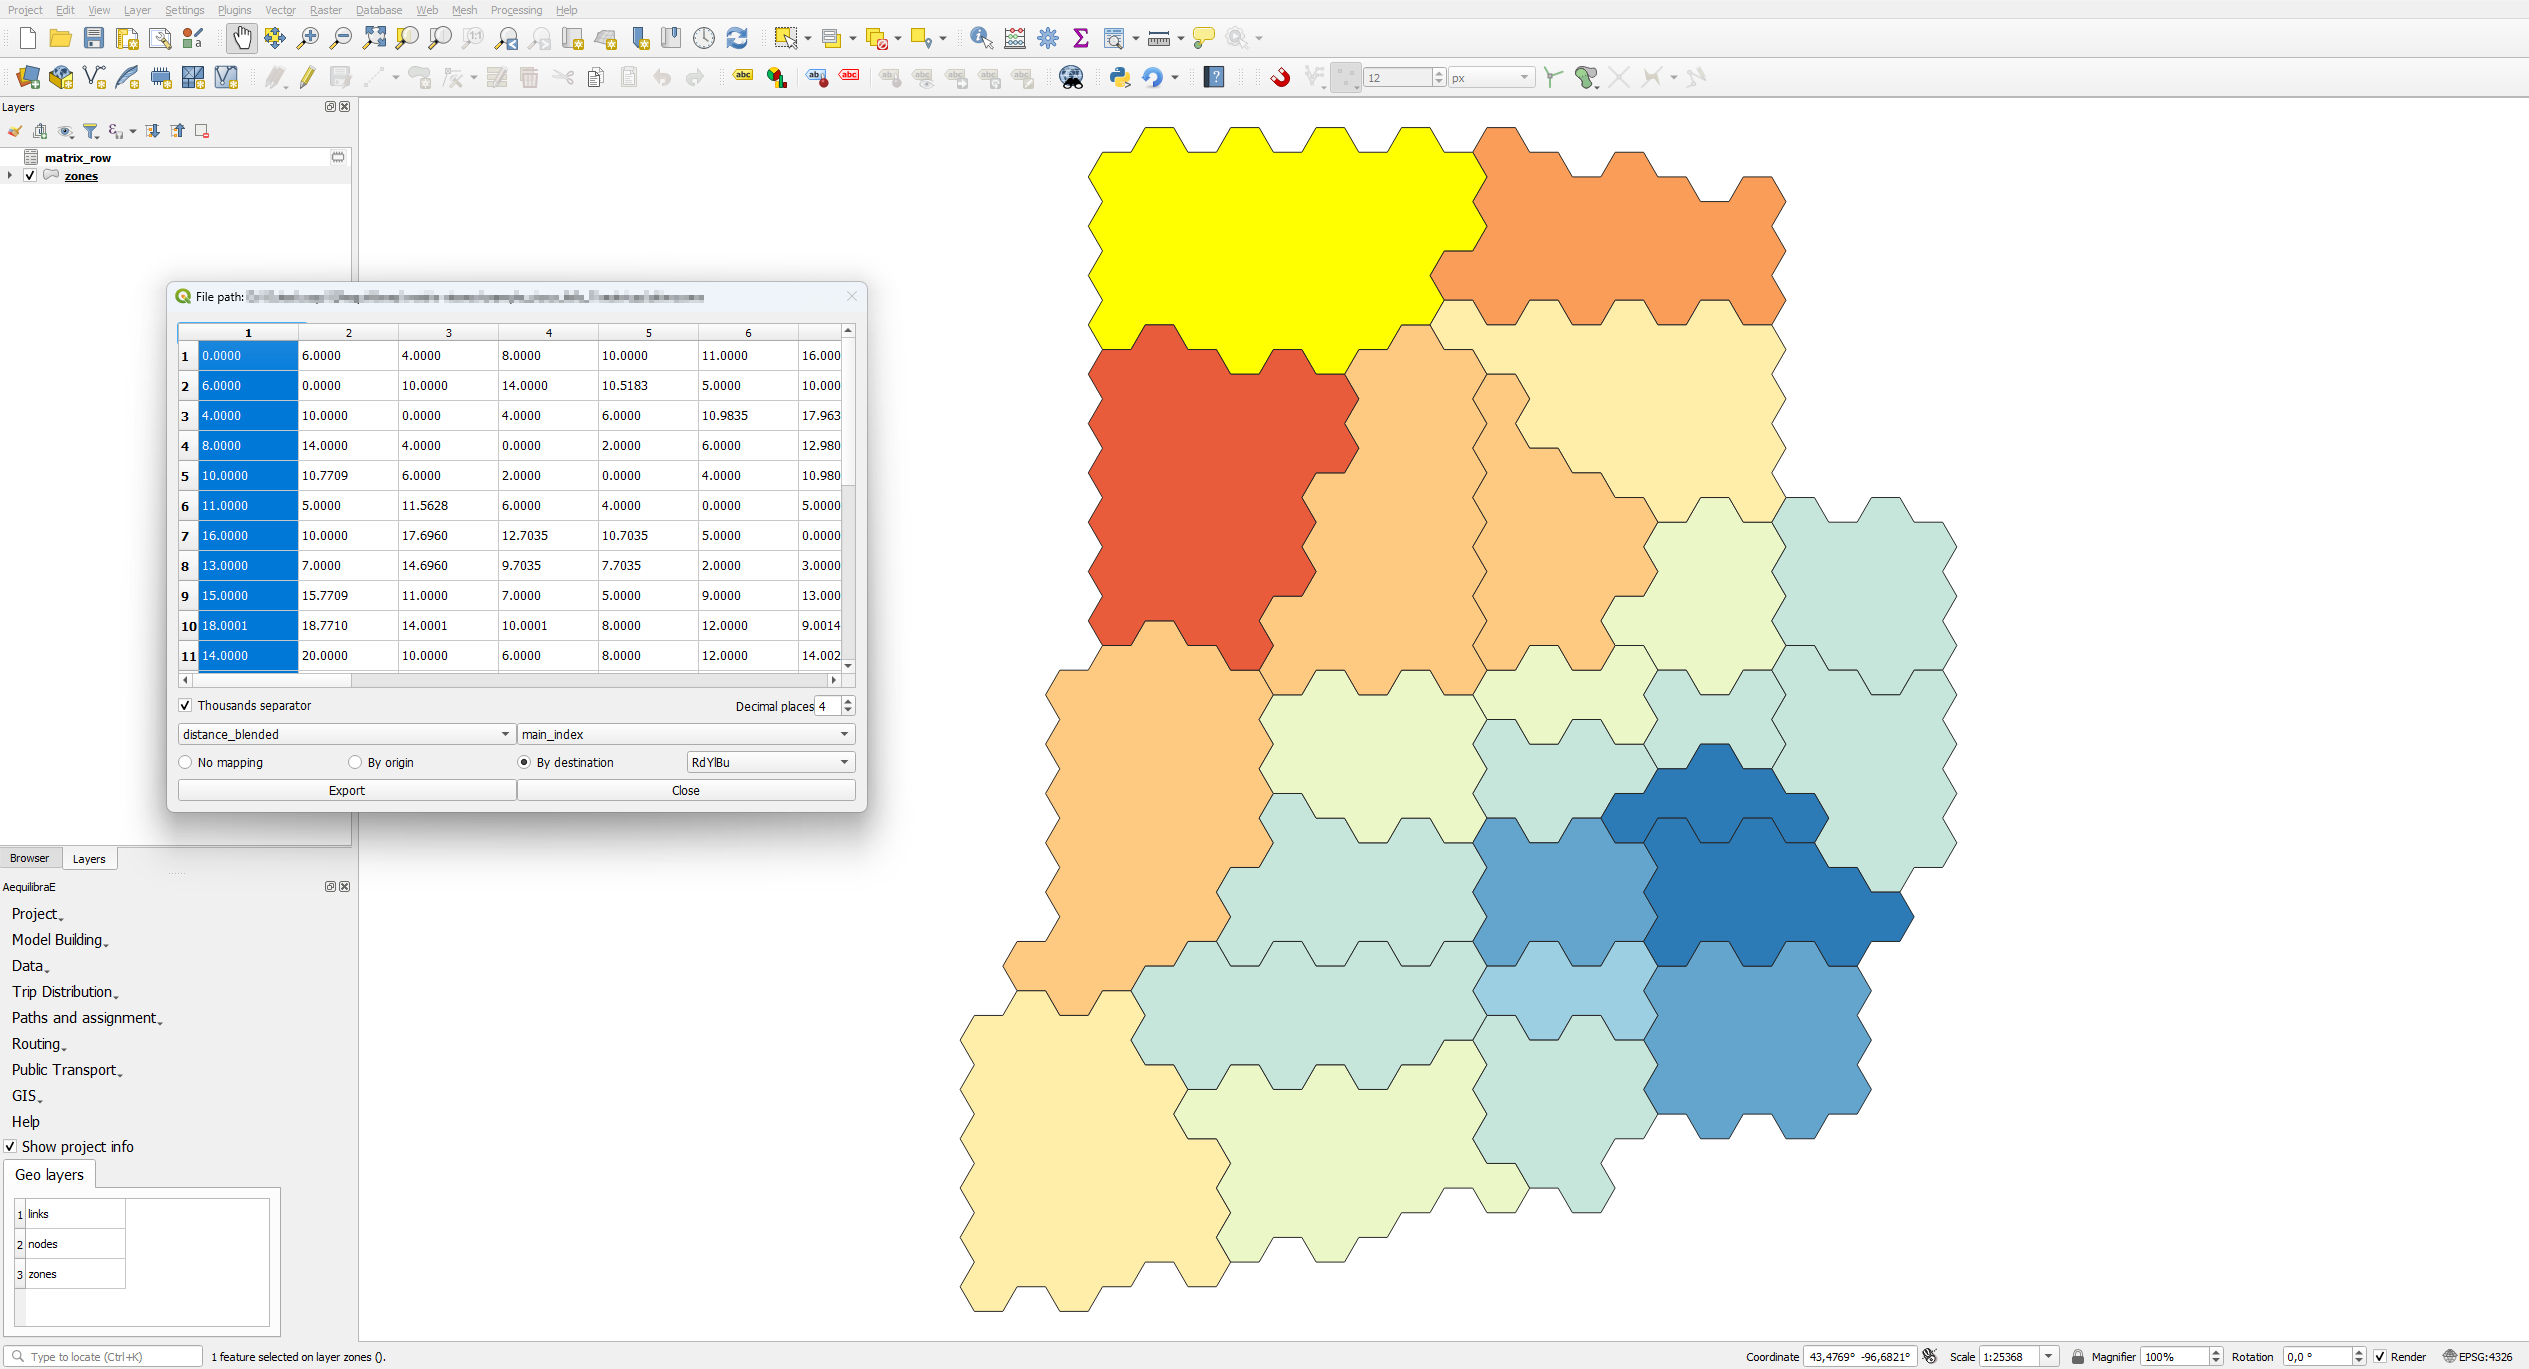
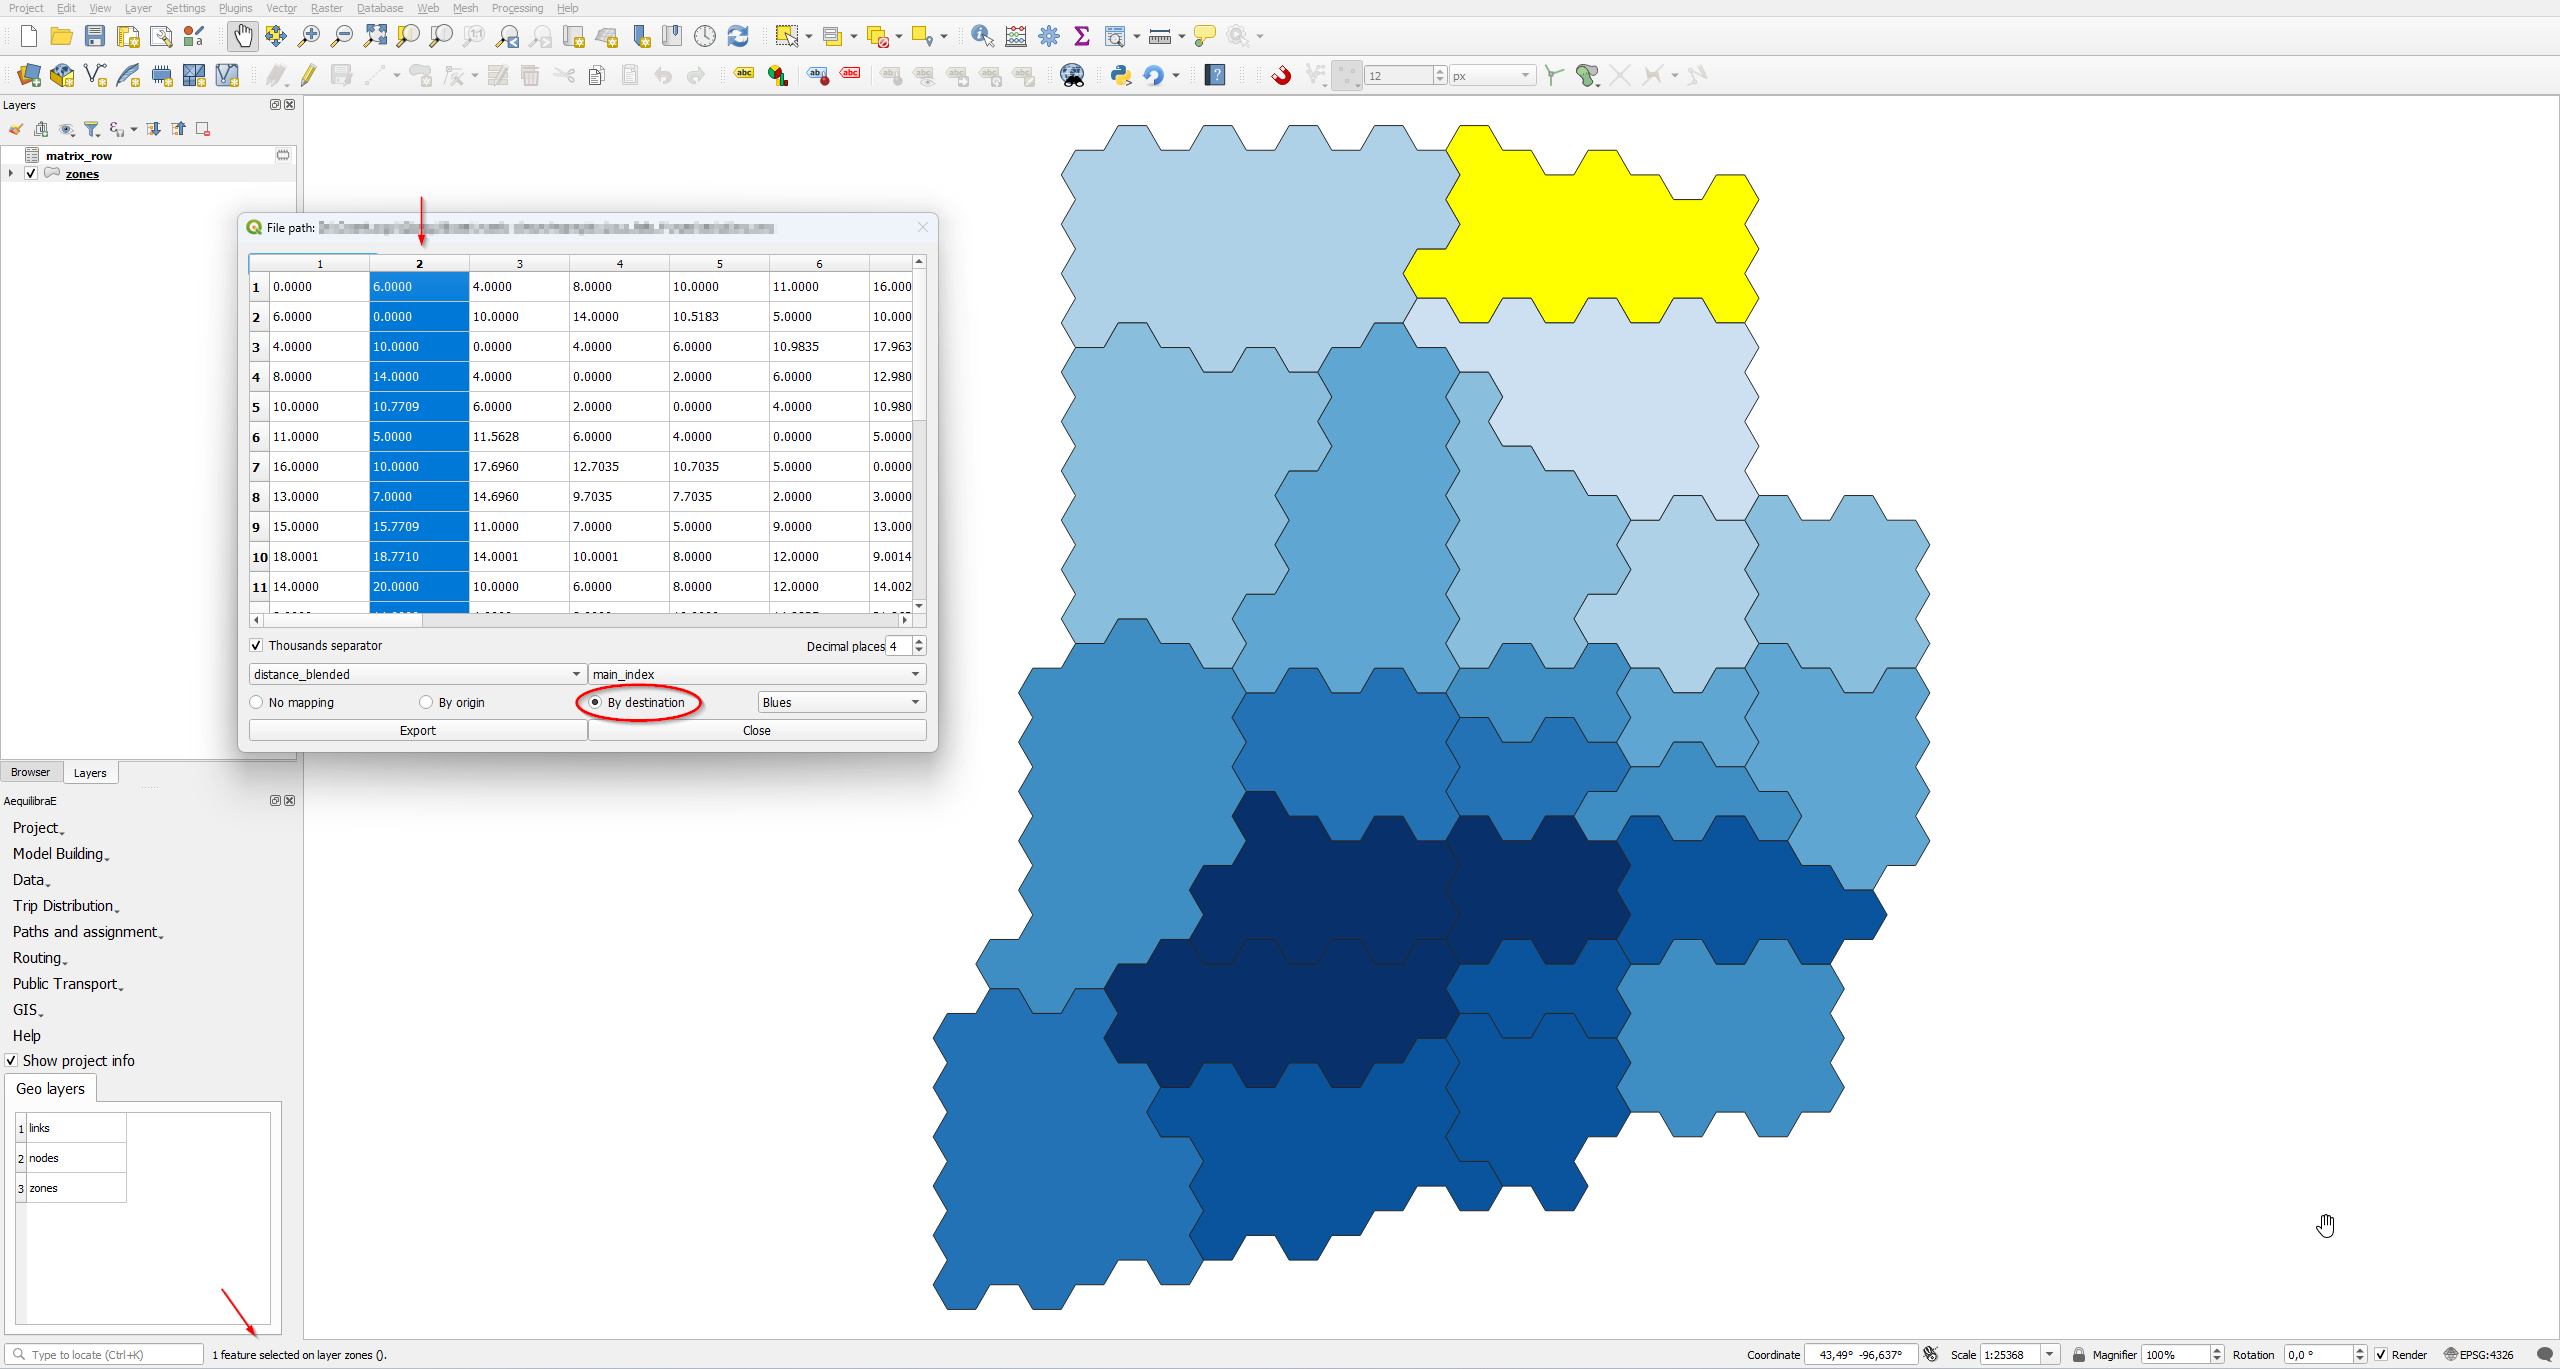
fixes documentation

diff --git a/docs/source/menus_in_detail/data.rst b/docs/source/menus_in_detail/data.rst
@@ -40,8 +40,8 @@ AequilibraE the location of the file and its visualization is displayed.
 Check the figure below to see how the visualization window looks like! General configurations for data displaying
 such as the number of decimal places and the usage of thousand separator are available. In case your file has more 
 than one view, you can select the desired view using the dropdown buttons at the bottom of the page. In our figure,
-they are represented by the dropdowns containing *matrix* and *main_index*. To save your current matrix into \*.csv
-format, just click in the *export* button in the lower left corner of the window.
+they are represented by the dropdowns containing *distance_blended* and *main_index*. To save your current matrix 
+into \*.csv format, just click in the *export* button in the lower left corner of the window.
 
 .. image:: ../images/data-visualize-loaded-matrix.png
     :align: center
@@ -53,7 +53,7 @@ select *By origin*, then click on the desired row, and notice that is going to b
 (if it exists) is going to be loaded and the corresponding zones are going to receive a different color shade, according
 to the color palette selected in the dropdown menu.
 
-.. image:: ../images/data-matrix-view-row-v2.png
+.. image:: ../images/data-matrix-view-row.png
     :align: center
     :alt: data matrix view by origin
 
